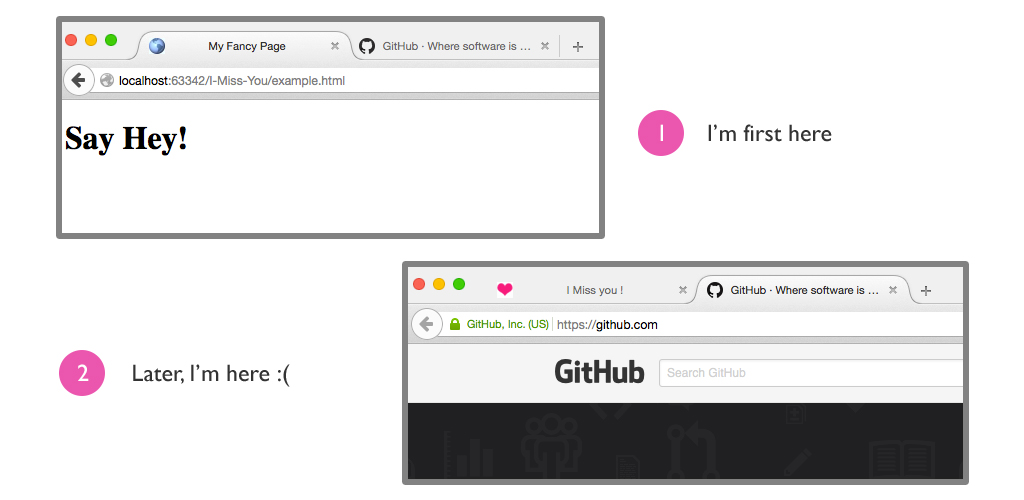
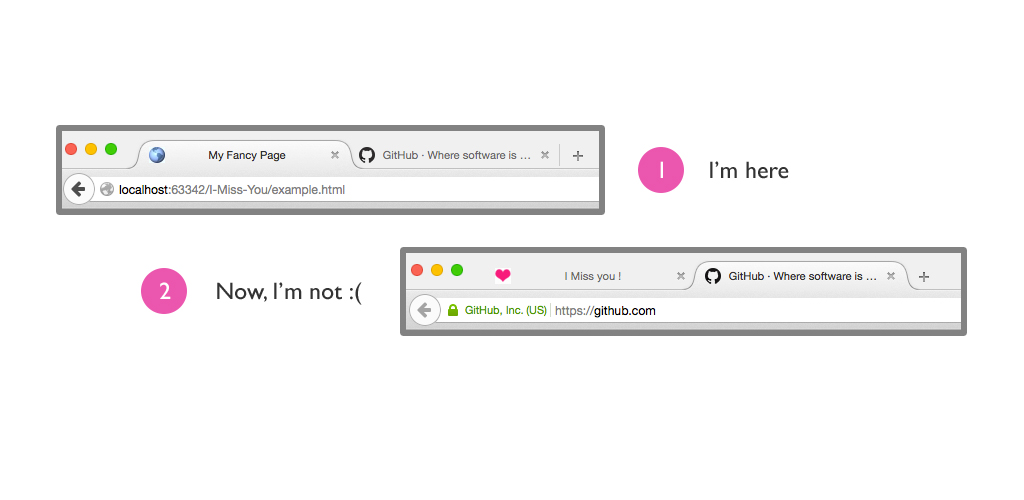
Update screenshot

Changed region(s): [[0.0312, 0.03, 0.9688, 0.99], [0.625, 0.21, 0.8125, 0.39], [0.0312, 0.69, 0.2812, 0.81]]

diff --git a/README.md b/README.md
@@ -9,7 +9,7 @@ jQuery plugin to change the title & favicon of the page when the user is not vie
 Screenshot
 -------------
 
-![enter image description here](https://raw.githubusercontent.com/Bahlaouane-Hamza/I-Miss-You/master/screenshot.jpg)
+![enter image description here](https://raw.githubusercontent.com/Bahlaouane-Hamza/I-Miss-You/master/screenshot.jpg?v=2)
 
 
 #### Usage
